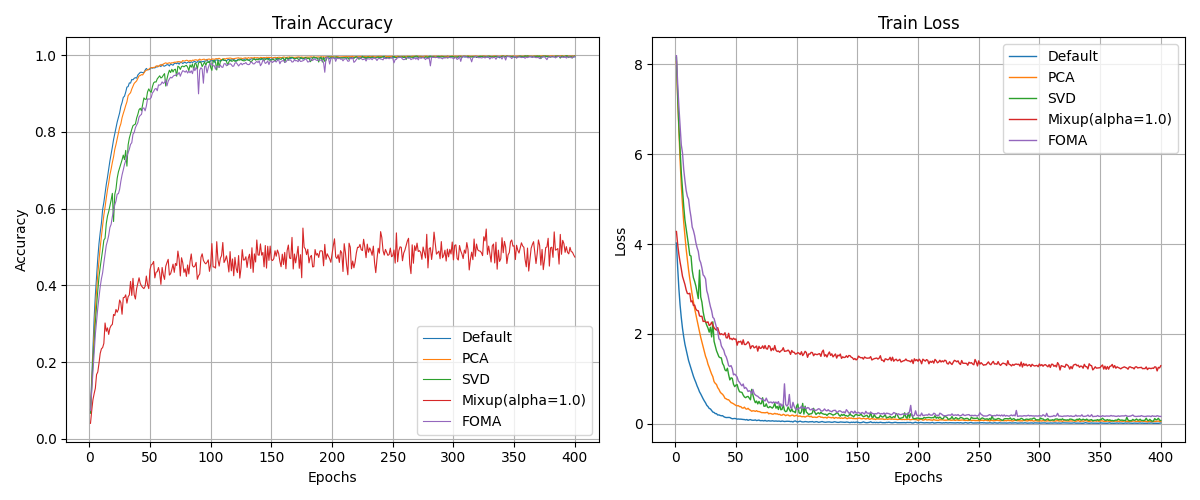
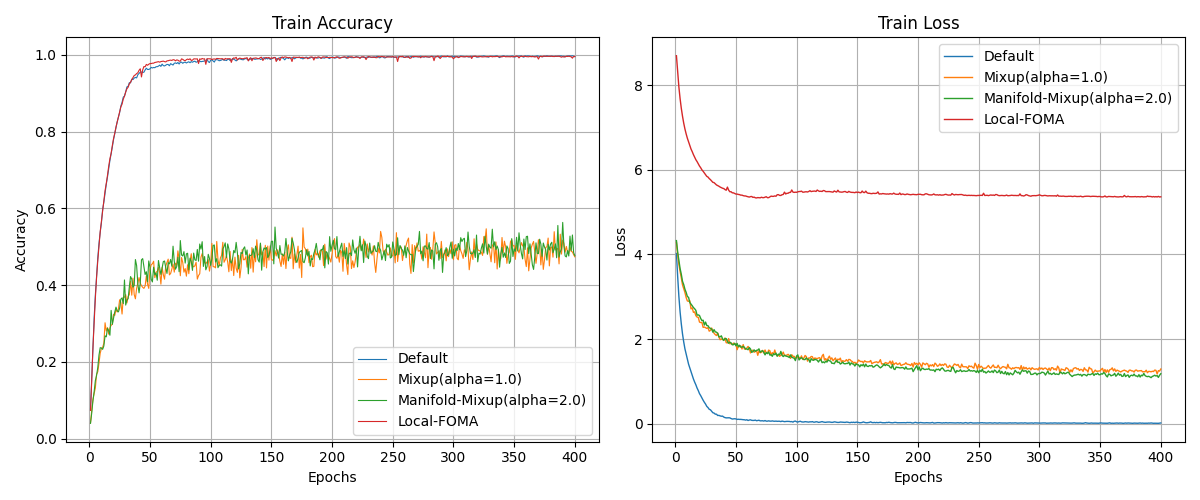
Hybrid method

diff --git a/src/methods/fomix.py b/src/methods/fomix.py
@@ -1,0 +1,140 @@
+import torch
+import torch.nn.functional as F
+
+def construct_local_Z(
+    features: torch.Tensor,      # (B, D)
+    Yh: torch.Tensor,            # (B, C) one-hot labels
+    idx: torch.Tensor,           # indices of samples (B,)
+    k: int                       # number of neighbors (including itself)
+) -> torch.Tensor:
+    """
+    For each sample b, gather its k nearest neighbors (including itself) in feature space,
+    concatenate neighbor features and one-hot labels -> (B, k, D+C)
+    """
+    dist = torch.cdist(features, features)                    # (B, B)
+    knn  = dist.topk(k=k, largest=False).indices              # (B, k)
+    neigh_idx = knn[idx]                                      # (B, k)
+    Xi = features[neigh_idx]                                  # (B, k, D)
+    Yi = Yh[neigh_idx]                                        # (B, k, C)
+    Z = torch.cat([Xi, Yi], dim=-1)                           # (B, k, D+C)
+    return Z
+
+
+def fomix_pair(
+    features: torch.Tensor,      # (B, D)
+    labels: torch.Tensor,        # (B,) integer labels or (B, C) soft labels
+    alpha: float,
+    rho: float,
+    k: int
+) -> (torch.Tensor, torch.Tensor, torch.Tensor, torch.Tensor):
+    """
+    Perform Local-FOMix by mixing each feature with a shuffled partner along its local manifold.
+    Returns:
+        X_mix: (B, D) mixed features
+        y_a:   (B,) original integer labels
+        y_b:   (B,) shuffled integer labels
+        lam:   (B,) mixing coefficients
+    """
+    B, D = features.shape
+    device = features.device
+
+    # 1) 整数ラベル & one-hot 準備
+    if labels.ndim == 1:
+        int_labels = labels
+    else:
+        int_labels = labels.argmax(dim=1)
+    C = int(int_labels.max().item()) + 1
+    Yh = F.one_hot(int_labels, C).float().to(device)  # (B, C)
+
+    # 2) バッチシャッフルによるペアリング
+    idx = torch.randperm(B, device=device)
+    i, j = torch.arange(B, device=device), idx
+
+    # 3) ラベルペア
+    y_a = int_labels[i]   # (B,)
+    y_b = int_labels[j]   # (B,)
+
+    # 4) 局所行列の構築
+    Zi_all = construct_local_Z(features, Yh, i, k)  # (B, k, D+C)
+    Zj_all = construct_local_Z(features, Yh, j, k)  # (B, k, D+C)
+
+    # 5) λ をサンプリング
+    lam = torch.distributions.Beta(alpha, alpha).sample((B,)).to(device)  # (B,)
+
+    # 6) 出力テンソル用意
+    X_mix = torch.empty((B, D), device=device, dtype=features.dtype)
+    Y_mix = torch.empty((B, C), device=device, dtype=Yh.dtype)
+
+    # 7) 各サンプルごとに SVD → 特異値スケーリング → 再構成 → 補間
+    for b in range(B):
+        # 中心化
+        Zi = Zi_all[b] - Zi_all[b].mean(dim=0)  # (k, D+C)
+        Zj = Zj_all[b] - Zj_all[b].mean(dim=0)
+
+        # SVD
+        Ui, si, Vti = torch.linalg.svd(Zi, full_matrices=False)
+        Uj, sj, Vtj = torch.linalg.svd(Zj, full_matrices=False)
+
+        # --- ここから特異値スケーリング ---
+        # 累積寄与率を計算
+        cum_i = torch.cumsum(si, dim=0) / si.sum()
+        cum_j = torch.cumsum(sj, dim=0) / sj.sum()
+
+        # ρ を超える特異値は lam[b] 倍、それ以外はそのまま
+        scale_i = torch.where(cum_i > rho, lam[b], torch.tensor(1.0, device=device))
+        scale_j = torch.where(cum_j > rho, lam[b], torch.tensor(1.0, device=device))
+
+        # 新しい特異値ベクトル
+        s2_i = si * scale_i
+        s2_j = sj * scale_j
+
+        # 再構成
+        Zi_rec = Ui @ torch.diag(s2_i) @ Vti  # (k, D+C)
+        Zj_rec = Uj @ torch.diag(s2_j) @ Vtj
+        # --- ここまで特異値スケーリング ---
+
+        # 自身(行0)のみ抽出して特徴次元に戻す
+        xi_rec = Zi_rec[0, :D]  # (D,)
+        xj_rec = Zj_rec[0, :D]  # (D,)
+
+        # 特徴とラベルの補間
+        X_mix[b] = (1 - lam[b]) * xi_rec + lam[b] * xj_rec
+        Y_mix[b] = (1 - lam[b]) * Yh[i[b]] + lam[b] * Yh[j[b]]
+
+    return X_mix, Y_mix, y_a, y_b, lam
+
+
+def compute_fomix_loss(
+    model,                      # CNN model
+    images: torch.Tensor,       # (B, C, H, W)
+    labels: torch.Tensor,       # (B,) integer labels
+    alpha: float = 1.0,
+    rho: float = 0.9,
+    k: int = 10,
+    lambda_mix: float = 1.0,
+    device: str = 'cuda'
+) -> (torch.Tensor, torch.Tensor):
+    """
+    Compute loss as CE on original + lambda_mix * FOMix mixup-style loss.
+    Returns total scalar loss and original logits.
+    """
+    model.train()
+    images = images.to(device)
+    labels = labels.to(device)
+
+    # Base forward
+    features = model.extract_features(images)   # (B, D)
+    logits_orig = model.linear(features)        # (B, num_classes)
+    loss_ce = F.cross_entropy(logits_orig, labels)
+
+    # Generate mixed features and label pairs
+    feat_mix, _, y_a, y_b, lam = fomix_pair(features, labels, alpha, rho, k)
+    logits_mix = model.linear(feat_mix)
+
+    # Mixup-style loss with per-sample coefficients and reduction to scalar
+    loss_a = F.cross_entropy(logits_mix, y_a, reduction='none')  # (B,)
+    loss_b = F.cross_entropy(logits_mix, y_b, reduction='none')  # (B,)
+    loss_mix = ((1 - lam) * loss_a + lam * loss_b).mean()        # scalar
+
+    total_loss = loss_ce + lambda_mix * loss_mix
+    return total_loss, logits_orig

diff --git a/src/methods/hybrid.py b/src/methods/hybrid.py
@@ -1,51 +1,6 @@
 import torch
 import torch.nn.functional as F
-
-def foma(X, Y, num_classes, alpha, rho, small_singular=True, lam=None):
-    B = X.shape[0]
-    # Flatten image to [B, C*H*W]
-    # X_flat = X.view(B, -1)
-    X_flat = X
-
-    # Convert labels to one-hot if needed
-    if Y.ndim == 1:  # [B]
-        Y_onehot = F.one_hot(Y, num_classes=num_classes).float()
-    else:
-        Y_onehot = Y.float()
-
-    # Concatenate X and Y
-    Z = torch.cat([X_flat, Y_onehot], dim=1)
-    Z = Z - Z.mean(dim=0, keepdim=True)
-    # Z = Z + 1e-3 * torch.randn_like(Z)
-
-    # SVD
-    U, s, Vt = torch.linalg.svd(Z, full_matrices=False)
-
-    # Lambda
-    if lam is None:
-        lam = torch.distributions.beta.Beta(alpha, alpha).sample().to(X.device)
-    if not torch.is_tensor(lam):
-        lam = torch.tensor(lam).to(X.device)
-
-    # Scale singular values (simplified: scaling small singular values)
-    cumperc = torch.cumsum(s, dim=0) / torch.sum(s)
-    condition = cumperc > rho if small_singular else cumperc < rho
-    lam_mult = torch.where(condition, lam, torch.tensor(1.0, device=s.device))
-    s_scaled = s * lam_mult
-
-    # Reconstruct Z
-    Z_scaled = (U @ torch.diag(s_scaled) @ Vt)
-
-    # Split back to X and Y
-    X_flat_scaled = Z_scaled[:, :X_flat.shape[1]]
-    Y_onehot_scaled = Z_scaled[:, X_flat.shape[1]:]
-
-    # Reshape X to original image shape
-    X_scaled = X_flat_scaled.view_as(X)
-
-    normalized_labels = F.softmax(Y_onehot_scaled, dim=1)
-
-    return X_scaled, normalized_labels
+import numpy as np
 
 def local_foma(
     X: torch.Tensor,             # (B, D) 特徴ベクトル
@@ -117,27 +72,44 @@ def local_foma(
 
     return X_aug, Y_aug
 
-
-def compute_foma_loss(model, images, labels, augment, lambda_almp=1.0, device='cuda'):
-    model.train()
-    images = images.to(device)
-    labels = labels.to(device)
-
-    # 特徴抽出
-    features = model.extract_features(images)  # (B, D)
-
-    # 元の分類出力
-    logits_orig = model.linear(features)
+def compute_hybrid_loss(model, images, labels, alpha_mix=1.0, alpha_foma=1.0, rho=0.9, k=10, gamma_mix=1.0, gamma_foma=1.0, device='cuda'):
+    B = images.size(0)
+    # 1) 元損失
+    logits_orig = model.linear(model.extract_features(images))
     loss_orig = F.cross_entropy(logits_orig, labels)
 
-    # FOMAによる特徴摂動
-    if augment == "FOMA":
-        features_foma, labels_foma = foma(features, labels, num_classes=100, alpha=1.0, rho=0.9)
-    elif augment == "Local-FOMA":
-        features_foma, labels_foma = local_foma(features, labels, num_classes=100, alpha=1.0, rho=0.9)
-    logits_foma = model.linear(features_foma)
-    loss_foma = F.cross_entropy(logits_foma, labels_foma)
+    # 2) 入力空間 Mixup
+    x_mix, y_a, y_b, lam1 = mixup_data(images, labels, alpha=alpha_mix)
+    feat_mix = model.extract_features(x_mix)
+    logits_mix = model.linear(feat_mix)
+    loss_mix = lam1 * F.cross_entropy(logits_mix, y_a) + (1-lam1) * F.cross_entropy(logits_mix, y_b)
 
-    return loss_orig + lambda_almp * loss_foma, logits_orig
+    # 3) Local-FOMA（ソフトラベル）
+    #    y_mix_soft: (B, C)
+    y_a_oh = F.one_hot(y_a, 100).float().to(device)
+    y_b_oh = F.one_hot(y_b, 100).float().to(device)
+    y_mix_soft = lam1 * y_a_oh + (1 - lam1) * y_b_oh
 
+    feat_foma, _ = local_foma(feat_mix, y_mix_soft, num_classes=100, alpha=alpha_foma, rho=rho, k=k)
+    logits_foma = model.linear(feat_foma)
+    # ソフトラベル用クロスエントロピー
+    loss_foma = -(y_mix_soft * F.log_softmax(logits_foma, dim=-1)).sum(dim=1).mean()
 
+    # 4) 合成
+    total_loss = (loss_orig + gamma_mix * loss_mix + gamma_foma * loss_foma)
+    return total_loss, logits_orig
+
+def mixup_data(x, y, alpha=1.0, use_cuda=True):
+    '''Returns mixed inputs, pairs of targets, and lambda'''
+    if alpha > 0:
+        lam = np.random.beta(alpha, alpha)
+    else:
+        lam = 1
+    batch_size = x.size()[0]
+    if use_cuda:
+        index = torch.randperm(batch_size).cuda()
+    else:
+        index = torch.randperm(batch_size)
+    mixed_x = lam * x + (1 - lam) * x[index, :]
+    y_a, y_b = y, y[index]
+    return mixed_x, y_a, y_b, lam

diff --git a/src/utils.py b/src/utils.py
@@ -28,6 +28,8 @@ from src.methods.augmix import AugMixTransform
 from src.methods.pca import compute_almp_loss_wrn
 from src.methods.svd import compute_almp_loss_svd
 from src.methods.foma import compute_foma_loss
+from src.methods.fomix import *
+from src.methods.hybrid import *
 from src.models.wide_resnet import Wide_ResNet
 
 def ent_augment_mixup(x, y, model, alpha_max, num_classes, eps=1e-8):
@@ -165,6 +167,12 @@ def train(model, train_loader, criterion, optimizer, device, augment, num_classe
             mix_loss = -(mixed_y * F.log_softmax(preds, dim=1)).sum(dim=1).mean()
 
             loss = mix_loss
+        
+        elif augment == "Mixup+FOMA":
+            loss, preds = compute_hybrid_loss(model, images, labels)
+        
+        elif augment == "FOMix":
+            loss, preds = compute_fomix_loss(model, images, labels)
         
         elif augment == "FOMA":
             loss, preds = compute_foma_loss(model, images, labels, augment, lambda_almp=1.0, device=device)

diff --git a/result.py b/result.py
@@ -20,8 +20,8 @@ def main():
     augmentations = [
         # "Original",
         "Default",
-        "PCA",
-        "SVD",
+        # "PCA",
+        # "SVD",
 
         # "Conf-Mixup",
 
@@ -31,7 +31,7 @@ def main():
         # "Mixup(alpha=5.0)",
         # "Manifold-Mixup(alpha=0.5)",
         # "Manifold-Mixup(alpha=1.0)",
-        # "Manifold-Mixup",
+        "Manifold-Mixup",
         # "Manifold-Mixup(alpha=5.0)",
         # "Mixup-Curriculum",
 
@@ -44,7 +44,8 @@ def main():
         # "Teacher-SK-Mixup",
         # "Teacher-SK-Mixup-Curriculum",
 
-        "FOMA",
+        # "FOMA",
+        "Local-FOMA",
         # "FOMA_latent_random",
 
         # "FOMA_fixed_input",

diff --git a/train.py b/train.py
@@ -53,7 +53,9 @@ augmentations = [
     # "Mixup(alpha=2.0)",
     # "Mixup(alpha=5.0)",
 
-    "Local-FOMA",
+    "Mixup+FOMA",
+    # "FOMix",
+    # "Local-FOMA",
     # "FOMA",
     # "FOMA_latent_random",
 
